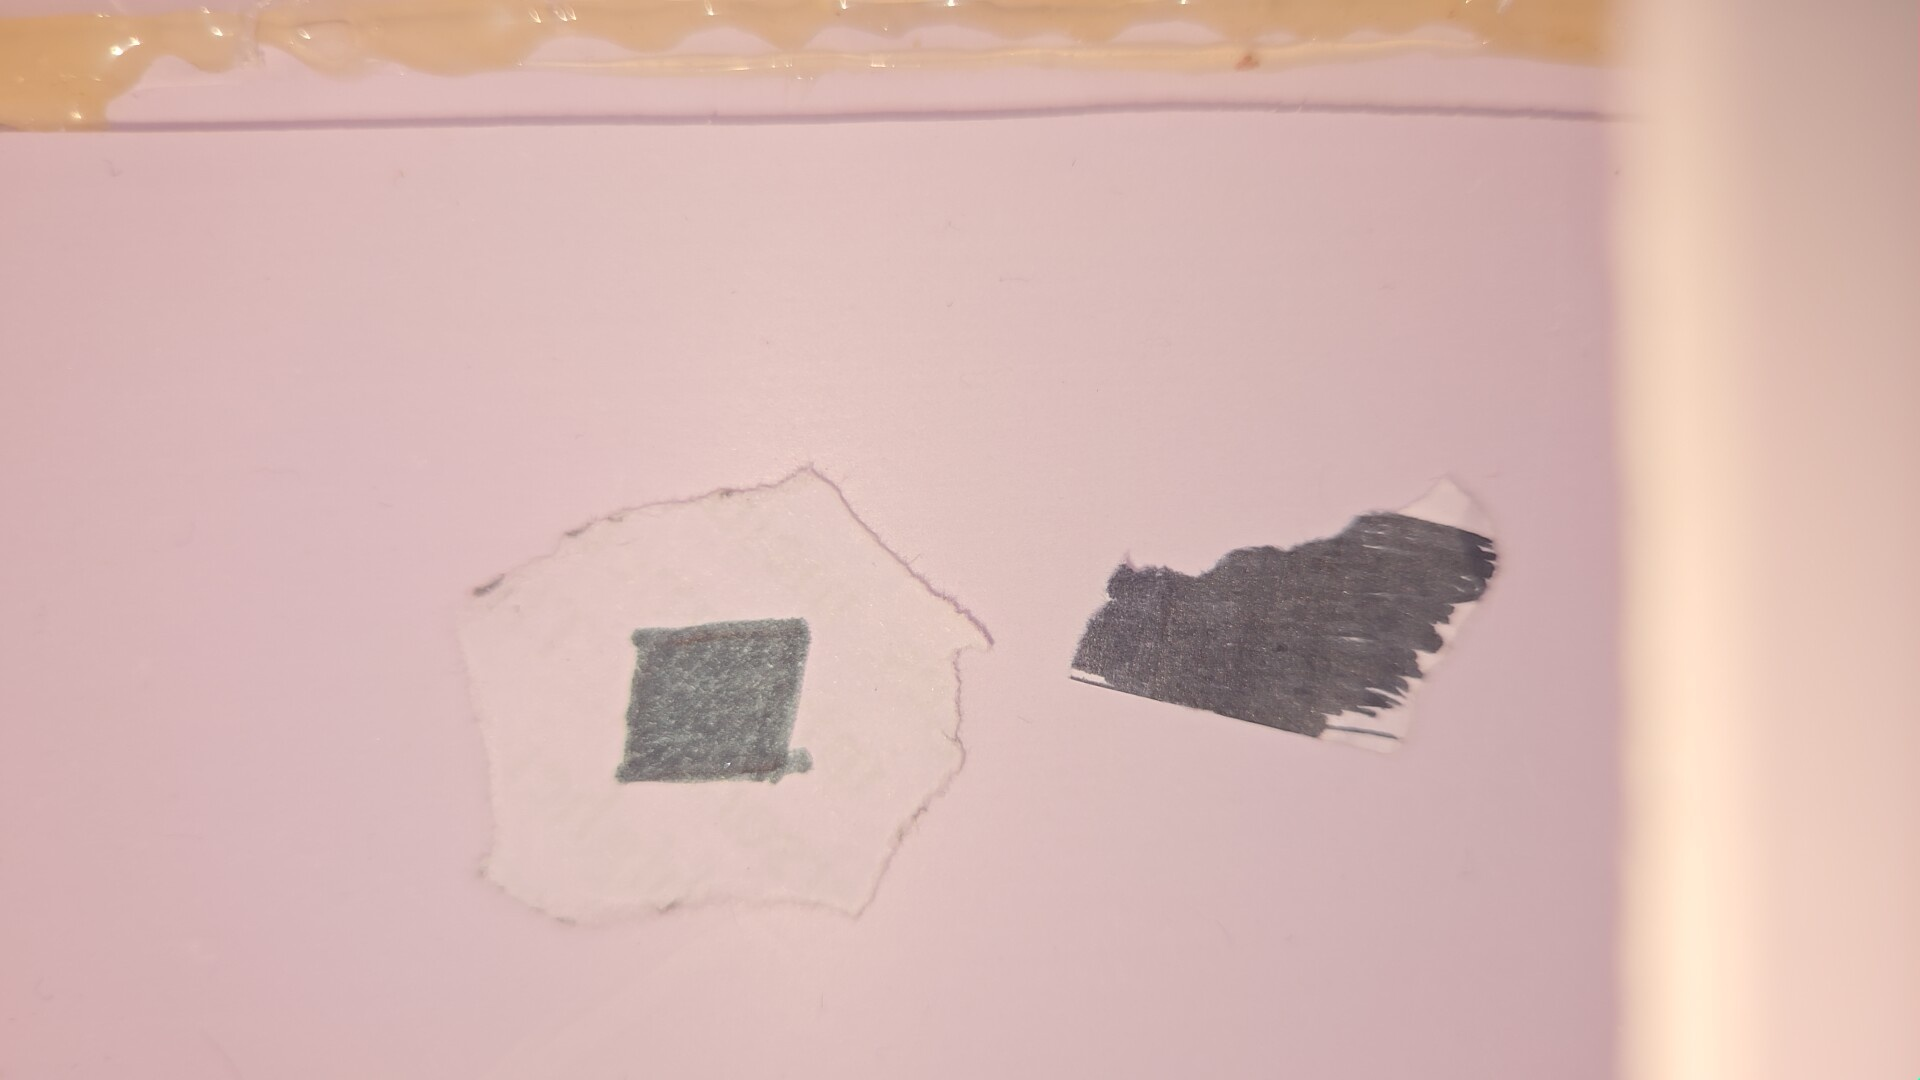
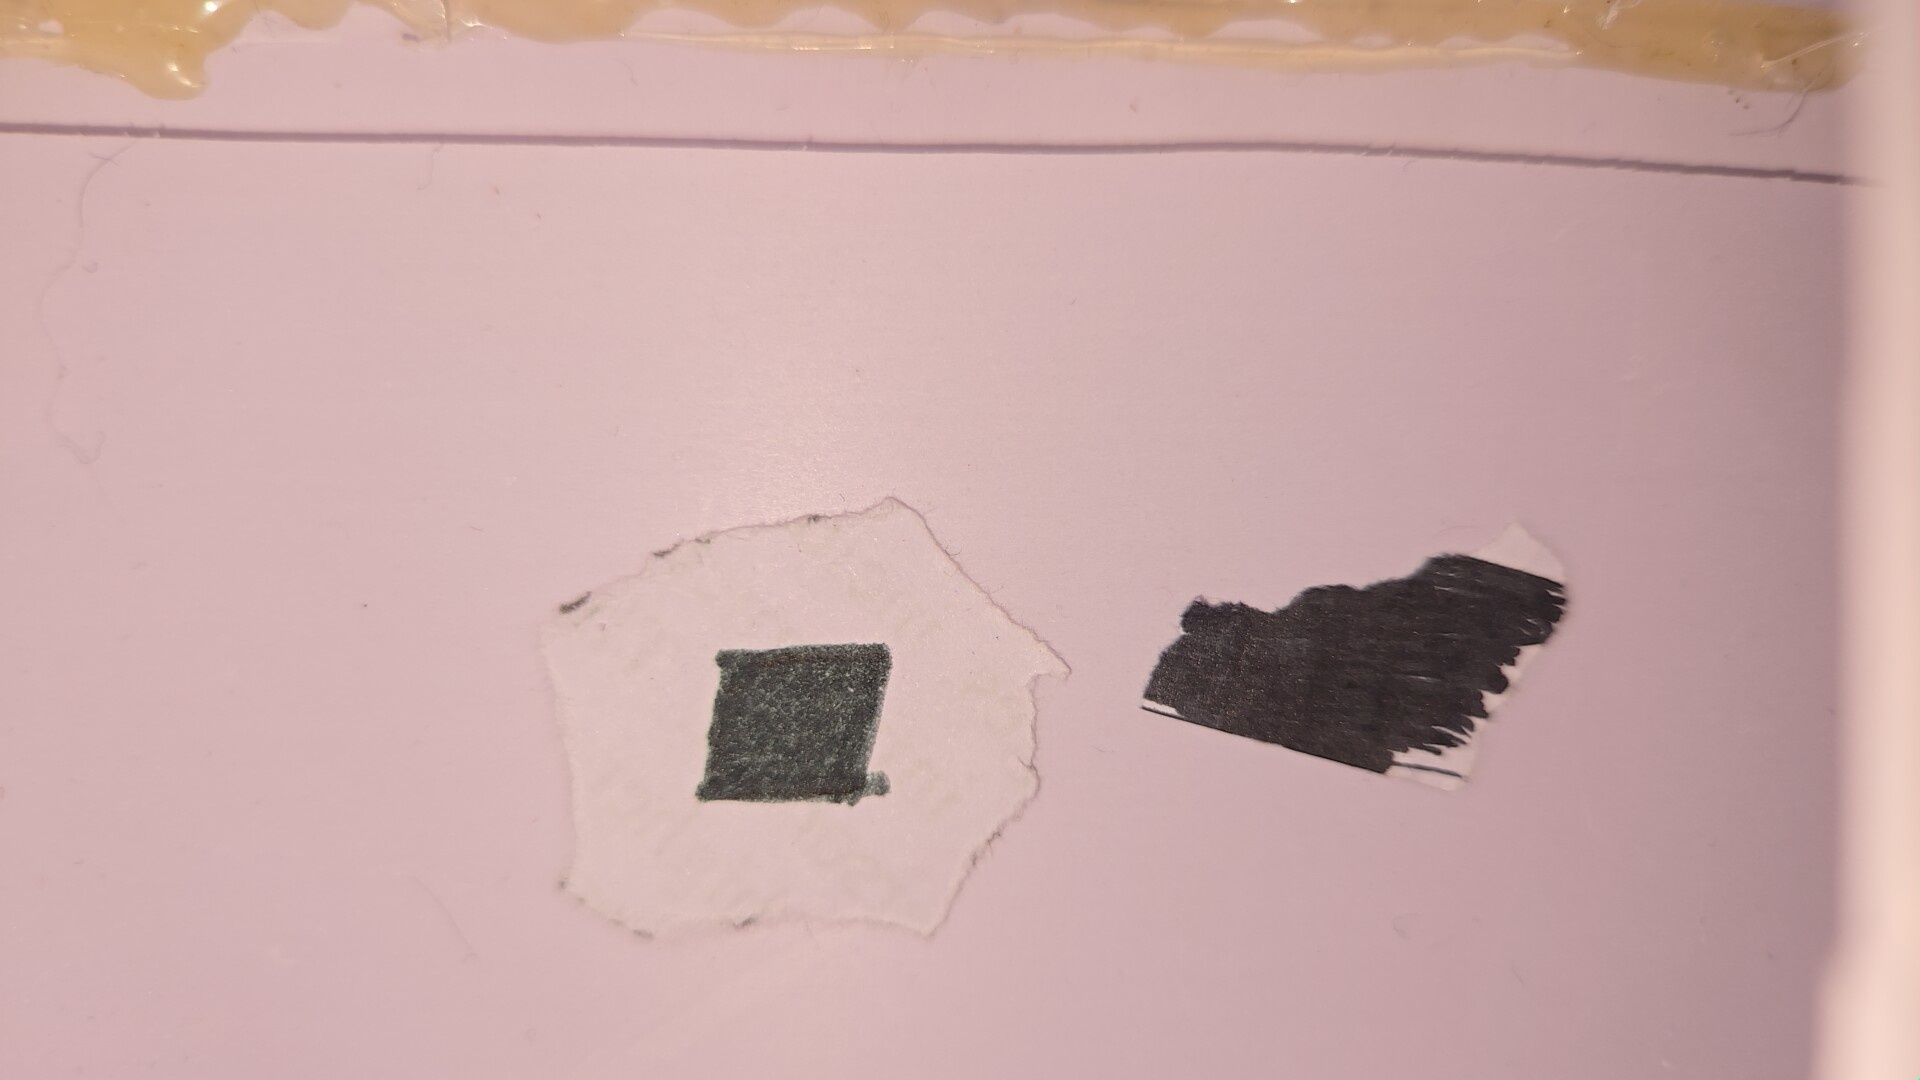
Recalibrate on new laptop: camera re-locked (same hash 231eb856), ROI 01396f44 with empty tray, startup screenshot

diff --git a/PROGRESS.md b/PROGRESS.md
@@ -160,3 +160,10 @@ None needed.
 - **11:40 Phone:** after the team accepted USB debugging, `adb devices` → `RZCY820AG0F device model:SM_S921E`. `adb forward tcp:8080 tcp:8080` OK. `phone_check.py`: `/shot.jpg` 1920×1080, latency **0.048 s mean / 0.067 s max**, central dE00 0.98 mean (camera unlocked, auto settings, phone not docked). Saved as `results/phone_check_20261122_newpc.json` + `results/ipwebcam_status_20261122_newpc.json`; the 19 Nov files cited in report_numbers.md are kept unchanged.
 - **Camera lock:** `lock_camera.py --check` FAILS as expected (IP Webcam back on defaults: torch off, auto exposure/WB, quality 49). To be redone with recalibration after the physical dock fixes (HANDOVER step A/B).
 - **Stale items fixed:** report_numbers.md "Changes since Round 2" (Wi-Fi → USB adb forward, D-36; 3-point → white_gain, D-37). HIL step 4 is now "phone link lost mid-read: unplug the phone's USB cable (or stop IP Webcam's server)" in `tools/hil_check.py` (prompt, log label, reconnect instructions) and RUNBOOK. RUNBOOK COM8 → COMx, "Phone reachable" hint updated for USB.
+- **12:00 Camera re-applied** (`lock_camera.py`): LOCK VERIFIED, white dE00 0.19 mean (`results/camera_lock_check_20261122_reapply.json`). Team kept the dock as it was (no L-stop / tray stop yet, marker patches unchanged) and asked to calibrate the current layout; they may adjust the dock later. **Rule agreed in chat: any dock change must happen before the dry runs; it then needs a recalibration.**
+- **12:05 `lock_camera.py --new`** (used strip in tray): single AF (manual best 2.4 < 0.8 × AF 97.8), daylight, 4.548 ms / ISO 25, level 219/255, same hash `231eb85694496d11`. The 19 Nov lock result is kept as `results/camera_lock_check_20261119.json`.
+- **12:10 ROI recalibrated** from scripts (same `app.roi.save_roi` as the web page). Regions drawn on the frame with a used strip: nitrate_pad [130,310,75,85], nitrite_pad [272,310,80,85], anchor (tip only) [40,270,76,160], white [885,630,90,150], grey [720,675,125,130], black [1190,655,190,90] (dense part of the scribble, away from its shiny streaks). Empty-tray frame captured automatically when the team removed the strip; the tray came back within (0, 1) px. **ROI hash `01396f4470cc9a85`.** Then `--new` again on the real white patch (level 218/255, same hash) and `--refresh-focus-ref` (sharpness 455.5). `--check` → CAMERA LOCK OK.
+- **Verified:** `roi.locate` on the strip frame → (0,0) score 1.00; on the empty frame → patches (0,1) 0.996, anchor not found → "strip not seated" (correct, no strip). Raw L*: white 79.2, grey 32.8, black 21.2 (below the placeholder 25), **tray floor 76** (light). Used-strip pad vs empty tray dE00 11.8. **Risk:** the light tray floor is close to a white 0 mg/L pad; the dry/distilled reads will show whether `strip_present` separates them.
+- **12:12 App** (`start_app.bat`, adb path read from config): checklist green (Arduino COM7, phone, camera locked, ROI loaded) except "Session open". Screenshot `docs/screenshots/main_startup_newpc.png`.
+- Pilot session `20261120_1120_train` no longer matches the ROI hash, so `train.py` will refuse it (by design; pilot evidence only).
+- **Strips left: 28** (team count, 2026-11-22).

diff --git a/RUNBOOK.md b/RUNBOOK.md
@@ -42,7 +42,7 @@ Commands are typed into **PowerShell**, opened in the folder `C:\stripdock_r3` (
 
 ## 2. Lock the camera (only once, or when the phone, patches or lighting change)
 
-The camera is **already locked** (re-locked 2026-11-20 10:43, settings hash `231eb85694496d11`). Don't redo this after training has started, because the model belongs to these settings.
+The camera is **already locked** (re-locked 2026-11-22 12:11 on the new laptop, settings hash `231eb85694496d11`, the same settings as 20 Nov). Don't redo this after training has started, because the model belongs to these settings.
 
 If it must be redone (before any training):
 1. Strip in the tray, drawer closed, phone in place.
@@ -66,7 +66,7 @@ To check at any time: `.venv\Scripts\python tools\lock_camera.py --check`.
 
 Do this **only** when the tray, phone, patches or lid have moved. **After training starts, never**, because a new ROI invalidates the model (the app will refuse test mode).
 
-The regions are calibrated for the layout of 2026-11-20 11:05 (ROI hash `ef3c1dd3e11afbd8`). **If the box or phone has moved since (e.g. after transport), recalibrate.**
+The regions are calibrated for the layout of 2026-11-22 12:10 (ROI hash `01396f4470cc9a85`, new laptop). **If the box or phone has moved since (e.g. after transport), recalibrate.**
 
 ![Regions](docs/screenshots/roi_layout_20261120_final.jpg)
 
